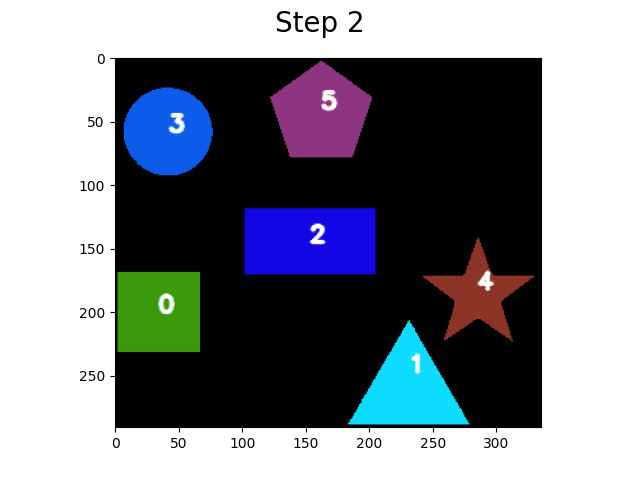
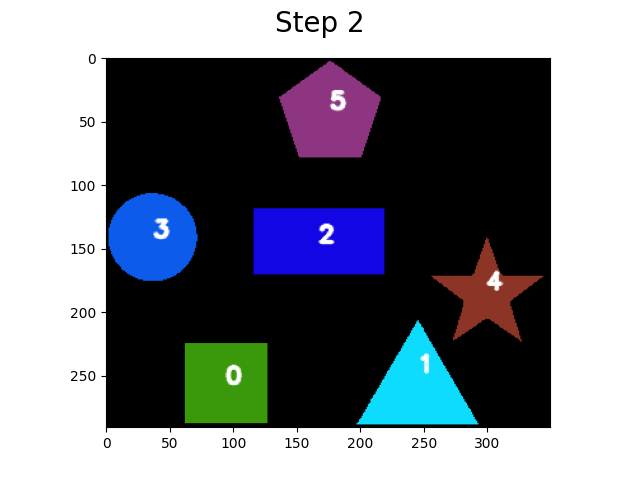
minor change on the gif

diff --git a/puzzle/solver/testing/basic02_simple.py b/puzzle/solver/testing/basic02_simple.py
@@ -91,19 +91,23 @@ saveMe = True
 # saveMe = False
 
 # num of size() actions at most
-for i in range(theSolver.desired.size()):
+for i in range(1+theSolver.desired.size()):
 
-  print(f'Step {i}:')
-
-  theSolver.takeTurn()
-
-  theSolver.current.display(fh =fh, ID_DISPLAY=True)
+  theSolver.current.display(fh=fh, ID_DISPLAY=True)
   fh.suptitle(f'Step {i}', fontsize=20)
-
   plt.pause(1)
+
+  if i==0:
+    # Display the original one at the very beginning
+    print(f'The original measured board')
+  else:
+    print(f'Step {i}:')
 
   if saveMe:
     fh.savefig(cpath + f'/data/theBoardMea_step{i}.png')
+
+  if i > 0:
+    theSolver.takeTurn()
 
 plt.ioff()
 # plt.draw()
